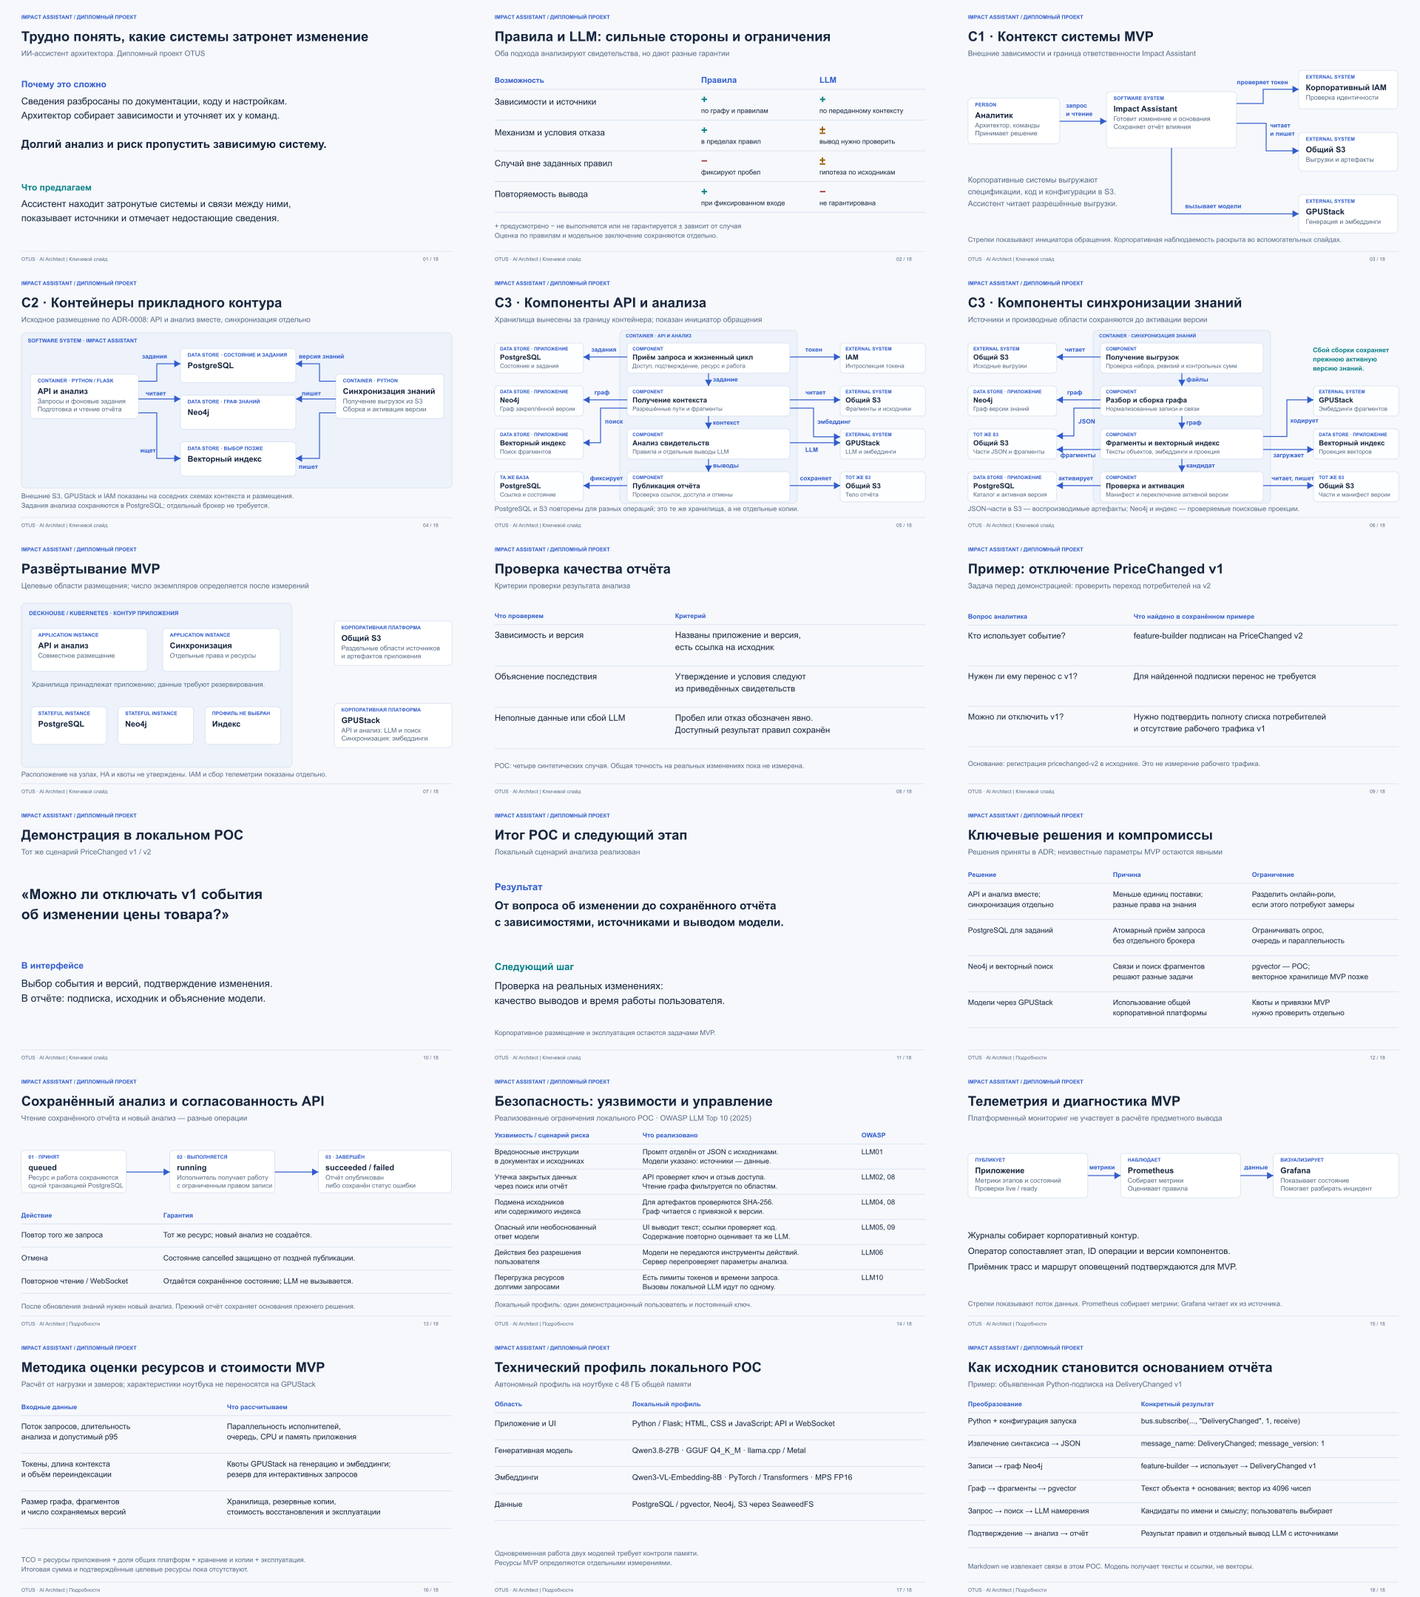
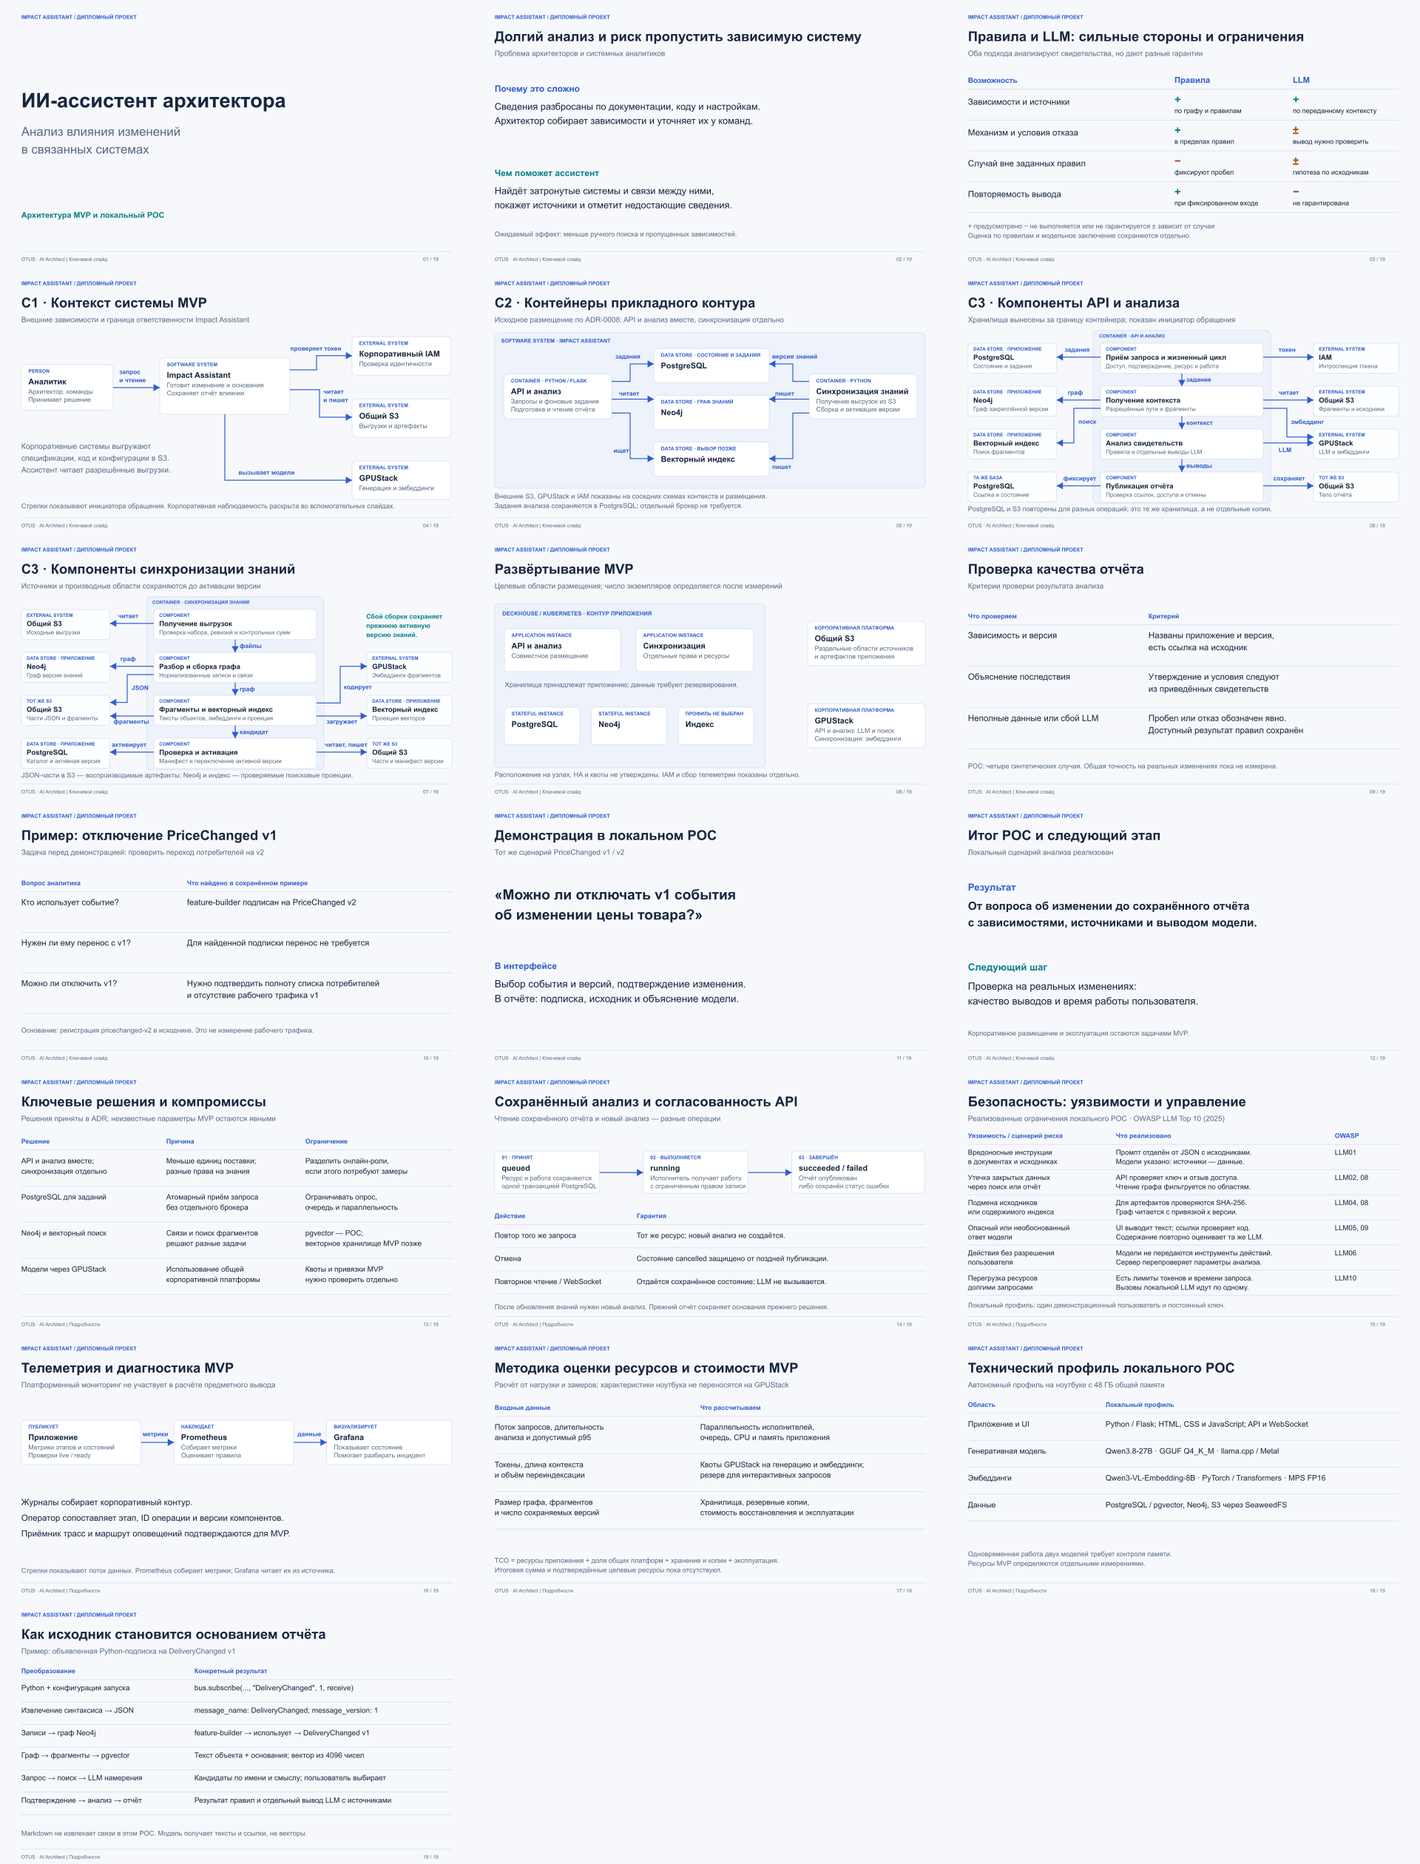
Restore project cover and explain stakeholder pain on slide two

diff --git a/impact-assistant/index.html b/impact-assistant/index.html
@@ -1,1 +1,1 @@
-<!doctype html><html lang="ru"><meta charset="utf-8"><meta name="viewport" content="width=device-width, initial-scale=1"><title>Impact Assistant · презентация</title><style>*{box-sizing:border-box}body{margin:0;background:#17263d;color:white;font-family:Arial,sans-serif}main{display:flex;min-height:100vh;align-items:center;justify-content:center}img{width:min(100vw,177.777vh);height:auto;display:block}nav{position:fixed;bottom:10px;right:14px;background:#17263ded;padding:10px;display:flex;gap:12px;border-radius:8px}button,a{font:16px Arial;color:white;background:none;border:0;cursor:pointer}button:focus-visible,a:focus-visible{outline:2px solid #80cdda;outline-offset:3px}#toc{display:none;position:fixed;inset:35px;background:#17263df8;padding:25px;overflow:auto}#toc a{display:block;padding:8px;text-decoration:none}#toc.open{display:block}@media print{nav,#toc{display:none}}</style><main><img id="slide" alt=""></main><nav><button id="prev" aria-label="Предыдущий слайд">←</button><span id="num"></span><button id="next" aria-label="Следующий слайд">→</button><button id="mode" aria-pressed="false">Короткий показ</button><button id="contents">Слайды</button><button id="full">На весь экран</button></nav><aside id="toc"><h2>Основной рассказ</h2><a href="#1" data-n="1">01 · Трудно понять, какие системы затронет изменение · ключевой</a><a href="#2" data-n="2">02 · Правила и LLM: сильные стороны и ограничения · ключевой</a><a href="#3" data-n="3">03 · C1 · Контекст системы MVP · ключевой</a><a href="#4" data-n="4">04 · C2 · Контейнеры прикладного контура · ключевой</a><a href="#5" data-n="5">05 · C3 · Компоненты API и анализа · ключевой</a><a href="#6" data-n="6">06 · C3 · Компоненты синхронизации знаний · ключевой</a><a href="#7" data-n="7">07 · Развёртывание MVP · ключевой</a><a href="#8" data-n="8">08 · Проверка качества отчёта · ключевой</a><a href="#9" data-n="9">09 · Пример: отключение PriceChanged v1 · ключевой</a><a href="#10" data-n="10">10 · Демонстрация в локальном POC · ключевой</a><a href="#11" data-n="11">11 · Итог POC и следующий этап · ключевой</a><h2>Вспомогательные слайды</h2><a href="#12" data-n="12">12 · Ключевые решения и компромиссы</a><a href="#13" data-n="13">13 · Сохранённый анализ и согласованность API</a><a href="#14" data-n="14">14 · Безопасность: уязвимости и управление</a><a href="#15" data-n="15">15 · Телеметрия и диагностика MVP</a><a href="#16" data-n="16">16 · Методика оценки ресурсов и стоимости MVP</a><a href="#17" data-n="17">17 · Технический профиль локального POC</a><a href="#18" data-n="18">18 · Как исходник становится основанием отчёта</a></aside><script>const slides=[{"n":1,"file":"01-title.svg","title":"Трудно понять, какие системы затронет изменение","time":30,"revision":"38cf57eca966"},{"n":2,"file":"02-approaches.svg","title":"Правила и LLM: сильные стороны и ограничения","time":30,"revision":"57046f15fb34"},{"n":3,"file":"03-c1.svg","title":"C1 · Контекст системы MVP","time":15,"revision":"043ed9316388"},{"n":4,"file":"04-c2.svg","title":"C2 · Контейнеры прикладного контура","time":25,"revision":"f3893c093e4f"},{"n":5,"file":"05-c3-online.svg","title":"C3 · Компоненты API и анализа","time":25,"revision":"762dbed663e1"},{"n":6,"file":"06-c3-knowledge.svg","title":"C3 · Компоненты синхронизации знаний","time":25,"revision":"e3339a1e2367"},{"n":7,"file":"07-deployment.svg","title":"Развёртывание MVP","time":15,"revision":"d83afd5dd19e"},{"n":8,"file":"08-quality.svg","title":"Проверка качества отчёта","time":20,"revision":"d7235bd63957"},{"n":9,"file":"09-migration-case.svg","title":"Пример: отключение PriceChanged v1","time":20,"revision":"291155af3c36"},{"n":10,"file":"10-demo.svg","title":"Демонстрация в локальном POC","time":75,"revision":"41ec2c6ea29b"},{"n":11,"file":"11-result.svg","title":"Итог POC и следующий этап","time":20,"revision":"8f59347031c7"},{"n":12,"file":"12-decisions.svg","title":"Ключевые решения и компромиссы","time":0,"revision":"182b462ec2f1"},{"n":13,"file":"13-lifecycle.svg","title":"Сохранённый анализ и согласованность API","time":0,"revision":"71aa8275d3a9"},{"n":14,"file":"14-security.svg","title":"Безопасность: уязвимости и управление","time":0,"revision":"4e3b6e67126b"},{"n":15,"file":"15-observability.svg","title":"Телеметрия и диагностика MVP","time":0,"revision":"80c09c63ca3e"},{"n":16,"file":"16-capacity.svg","title":"Методика оценки ресурсов и стоимости MVP","time":0,"revision":"ab0009ce8540"},{"n":17,"file":"17-local.svg","title":"Технический профиль локального POC","time":0,"revision":"257c4f4f5ece"},{"n":18,"file":"18-pipeline.svg","title":"Как исходник становится основанием отчёта","time":0,"revision":"5e3ad0324859"}];const mainRoute=slides.filter(s=>s.time).map(s=>s.n);let n=1,short=false;const byId=id=>document.getElementById(id);function route(){return short?mainRoute:slides.map(s=>s.n)}function show(){const raw=Number.parseInt(location.hash.slice(1),10);n=Math.max(1,Math.min(slides.length,Number.isFinite(raw)?raw:1));const s=slides[n-1];byId('slide').src=s.file+'?v='+s.revision;byId('slide').alt=s.title;byId('num').textContent=n+' / '+slides.length;byId('toc').classList.remove('open')}function go(d){const r=route();const next=d>0?r.find(v=>v>n):r.slice().reverse().find(v=>v<n);if(next)location.hash=next}byId('prev').onclick=()=>go(-1);byId('next').onclick=()=>go(1);byId('mode').onclick=()=>{short=!short;byId('mode').textContent=short?'Все слайды':'Короткий показ';byId('mode').setAttribute('aria-pressed',String(short));if(short&&!mainRoute.includes(n))location.hash=mainRoute.find(v=>v>=n)||mainRoute[mainRoute.length-1]};byId('contents').onclick=()=>byId('toc').classList.toggle('open');byId('full').onclick=()=>{const op=document.fullscreenElement?document.exitFullscreen?.():document.documentElement.requestFullscreen?.();op?.catch(()=>{})};addEventListener('hashchange',show);addEventListener('keydown',e=>{if(e.target.closest('button,a,input,select,textarea'))return;if(['ArrowRight','PageDown',' '].includes(e.key)){e.preventDefault();go(1)}if(['ArrowLeft','PageUp'].includes(e.key)){e.preventDefault();go(-1)}if(e.key==='Home'){e.preventDefault();location.hash=route()[0]}if(e.key==='End'){e.preventDefault();location.hash=route().at(-1)}if(e.key==='Escape')byId('toc').classList.remove('open')});show();</script></html>
+<!doctype html><html lang="ru"><meta charset="utf-8"><meta name="viewport" content="width=device-width, initial-scale=1"><title>Impact Assistant · презентация</title><style>*{box-sizing:border-box}body{margin:0;background:#17263d;color:white;font-family:Arial,sans-serif}main{display:flex;min-height:100vh;align-items:center;justify-content:center}img{width:min(100vw,177.777vh);height:auto;display:block}nav{position:fixed;bottom:10px;right:14px;background:#17263ded;padding:10px;display:flex;gap:12px;border-radius:8px}button,a{font:16px Arial;color:white;background:none;border:0;cursor:pointer}button:focus-visible,a:focus-visible{outline:2px solid #80cdda;outline-offset:3px}#toc{display:none;position:fixed;inset:35px;background:#17263df8;padding:25px;overflow:auto}#toc a{display:block;padding:8px;text-decoration:none}#toc.open{display:block}@media print{nav,#toc{display:none}}</style><main><img id="slide" alt=""></main><nav><button id="prev" aria-label="Предыдущий слайд">←</button><span id="num"></span><button id="next" aria-label="Следующий слайд">→</button><button id="mode" aria-pressed="false">Короткий показ</button><button id="contents">Слайды</button><button id="full">На весь экран</button></nav><aside id="toc"><h2>Основной рассказ</h2><a href="#1" data-n="1">01 · ИИ-ассистент архитектора · ключевой</a><a href="#2" data-n="2">02 · Долгий анализ и риск пропустить зависимую систему · ключевой</a><a href="#3" data-n="3">03 · Правила и LLM: сильные стороны и ограничения · ключевой</a><a href="#4" data-n="4">04 · C1 · Контекст системы MVP · ключевой</a><a href="#5" data-n="5">05 · C2 · Контейнеры прикладного контура · ключевой</a><a href="#6" data-n="6">06 · C3 · Компоненты API и анализа · ключевой</a><a href="#7" data-n="7">07 · C3 · Компоненты синхронизации знаний · ключевой</a><a href="#8" data-n="8">08 · Развёртывание MVP · ключевой</a><a href="#9" data-n="9">09 · Проверка качества отчёта · ключевой</a><a href="#10" data-n="10">10 · Пример: отключение PriceChanged v1 · ключевой</a><a href="#11" data-n="11">11 · Демонстрация в локальном POC · ключевой</a><a href="#12" data-n="12">12 · Итог POC и следующий этап · ключевой</a><h2>Вспомогательные слайды</h2><a href="#13" data-n="13">13 · Ключевые решения и компромиссы</a><a href="#14" data-n="14">14 · Сохранённый анализ и согласованность API</a><a href="#15" data-n="15">15 · Безопасность: уязвимости и управление</a><a href="#16" data-n="16">16 · Телеметрия и диагностика MVP</a><a href="#17" data-n="17">17 · Методика оценки ресурсов и стоимости MVP</a><a href="#18" data-n="18">18 · Технический профиль локального POC</a><a href="#19" data-n="19">19 · Как исходник становится основанием отчёта</a></aside><script>const slides=[{"n":1,"file":"01-title.svg","title":"ИИ-ассистент архитектора","time":10,"revision":"06382b243ae0"},{"n":2,"file":"02-problem.svg","title":"Долгий анализ и риск пропустить зависимую систему","time":20,"revision":"981defda7e0b"},{"n":3,"file":"03-approaches.svg","title":"Правила и LLM: сильные стороны и ограничения","time":30,"revision":"230fa980232c"},{"n":4,"file":"04-c1.svg","title":"C1 · Контекст системы MVP","time":15,"revision":"1c7bf6c8f998"},{"n":5,"file":"05-c2.svg","title":"C2 · Контейнеры прикладного контура","time":25,"revision":"280129a84140"},{"n":6,"file":"06-c3-online.svg","title":"C3 · Компоненты API и анализа","time":25,"revision":"ea37dee92d67"},{"n":7,"file":"07-c3-knowledge.svg","title":"C3 · Компоненты синхронизации знаний","time":25,"revision":"94e41db52eb5"},{"n":8,"file":"08-deployment.svg","title":"Развёртывание MVP","time":15,"revision":"6394b96f9e48"},{"n":9,"file":"09-quality.svg","title":"Проверка качества отчёта","time":20,"revision":"240302551afe"},{"n":10,"file":"10-migration-case.svg","title":"Пример: отключение PriceChanged v1","time":20,"revision":"54a156ce6bcd"},{"n":11,"file":"11-demo.svg","title":"Демонстрация в локальном POC","time":75,"revision":"04f3c963137e"},{"n":12,"file":"12-result.svg","title":"Итог POC и следующий этап","time":20,"revision":"a6b045867650"},{"n":13,"file":"13-decisions.svg","title":"Ключевые решения и компромиссы","time":0,"revision":"b60e03a41d2e"},{"n":14,"file":"14-lifecycle.svg","title":"Сохранённый анализ и согласованность API","time":0,"revision":"84a97e848998"},{"n":15,"file":"15-security.svg","title":"Безопасность: уязвимости и управление","time":0,"revision":"233cd37dccab"},{"n":16,"file":"16-observability.svg","title":"Телеметрия и диагностика MVP","time":0,"revision":"7f2e42158cf9"},{"n":17,"file":"17-capacity.svg","title":"Методика оценки ресурсов и стоимости MVP","time":0,"revision":"9f681e808dbd"},{"n":18,"file":"18-local.svg","title":"Технический профиль локального POC","time":0,"revision":"836552f012de"},{"n":19,"file":"19-pipeline.svg","title":"Как исходник становится основанием отчёта","time":0,"revision":"f841423e4a54"}];const mainRoute=slides.filter(s=>s.time).map(s=>s.n);let n=1,short=false;const byId=id=>document.getElementById(id);function route(){return short?mainRoute:slides.map(s=>s.n)}function show(){const raw=Number.parseInt(location.hash.slice(1),10);n=Math.max(1,Math.min(slides.length,Number.isFinite(raw)?raw:1));const s=slides[n-1];byId('slide').src=s.file+'?v='+s.revision;byId('slide').alt=s.title;byId('num').textContent=n+' / '+slides.length;byId('toc').classList.remove('open')}function go(d){const r=route();const next=d>0?r.find(v=>v>n):r.slice().reverse().find(v=>v<n);if(next)location.hash=next}byId('prev').onclick=()=>go(-1);byId('next').onclick=()=>go(1);byId('mode').onclick=()=>{short=!short;byId('mode').textContent=short?'Все слайды':'Короткий показ';byId('mode').setAttribute('aria-pressed',String(short));if(short&&!mainRoute.includes(n))location.hash=mainRoute.find(v=>v>=n)||mainRoute[mainRoute.length-1]};byId('contents').onclick=()=>byId('toc').classList.toggle('open');byId('full').onclick=()=>{const op=document.fullscreenElement?document.exitFullscreen?.():document.documentElement.requestFullscreen?.();op?.catch(()=>{})};addEventListener('hashchange',show);addEventListener('keydown',e=>{if(e.target.closest('button,a,input,select,textarea'))return;if(['ArrowRight','PageDown',' '].includes(e.key)){e.preventDefault();go(1)}if(['ArrowLeft','PageUp'].includes(e.key)){e.preventDefault();go(-1)}if(e.key==='Home'){e.preventDefault();location.hash=route()[0]}if(e.key==='End'){e.preventDefault();location.hash=route().at(-1)}if(e.key==='Escape')byId('toc').classList.remove('open')});show();</script></html>

diff --git a/impact-assistant/README.md b/impact-assistant/README.md
@@ -4,7 +4,7 @@
 
 [Открыть презентацию](https://avkuzmin.github.io/impact-assistant/)
 
-18 слайдов. Основной рассказ: 01–11, 5 минут. Архитектура: 03–07. Вспомогательные материалы: 12–18.
+19 слайдов. Основной рассказ: 01–12, 5 минут. Архитектура: 04–08. Вспомогательные материалы: 13–19.
 
 Последовательность: задача пользователя, сравнение правил и LLM, архитектура, проверка качества, пример PriceChanged, демонстрация и итог POC.
 
